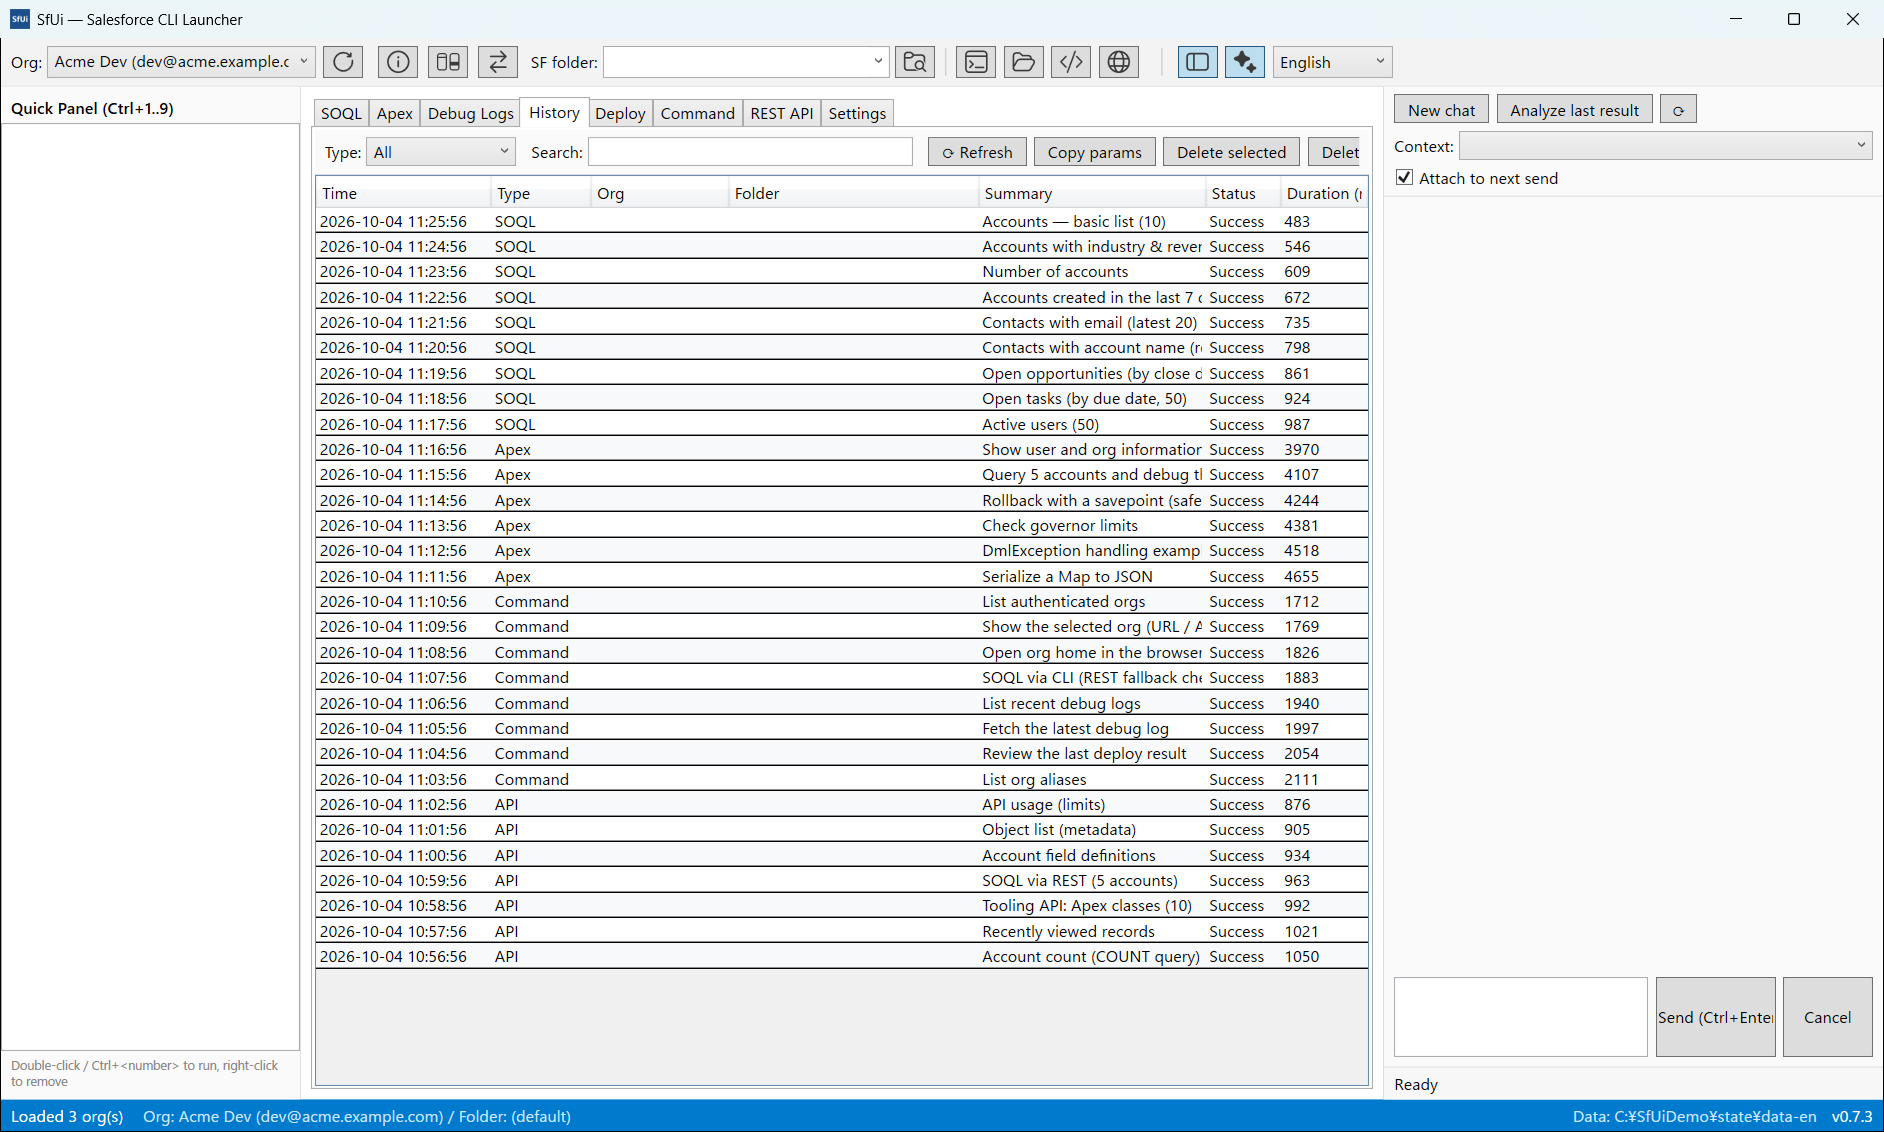
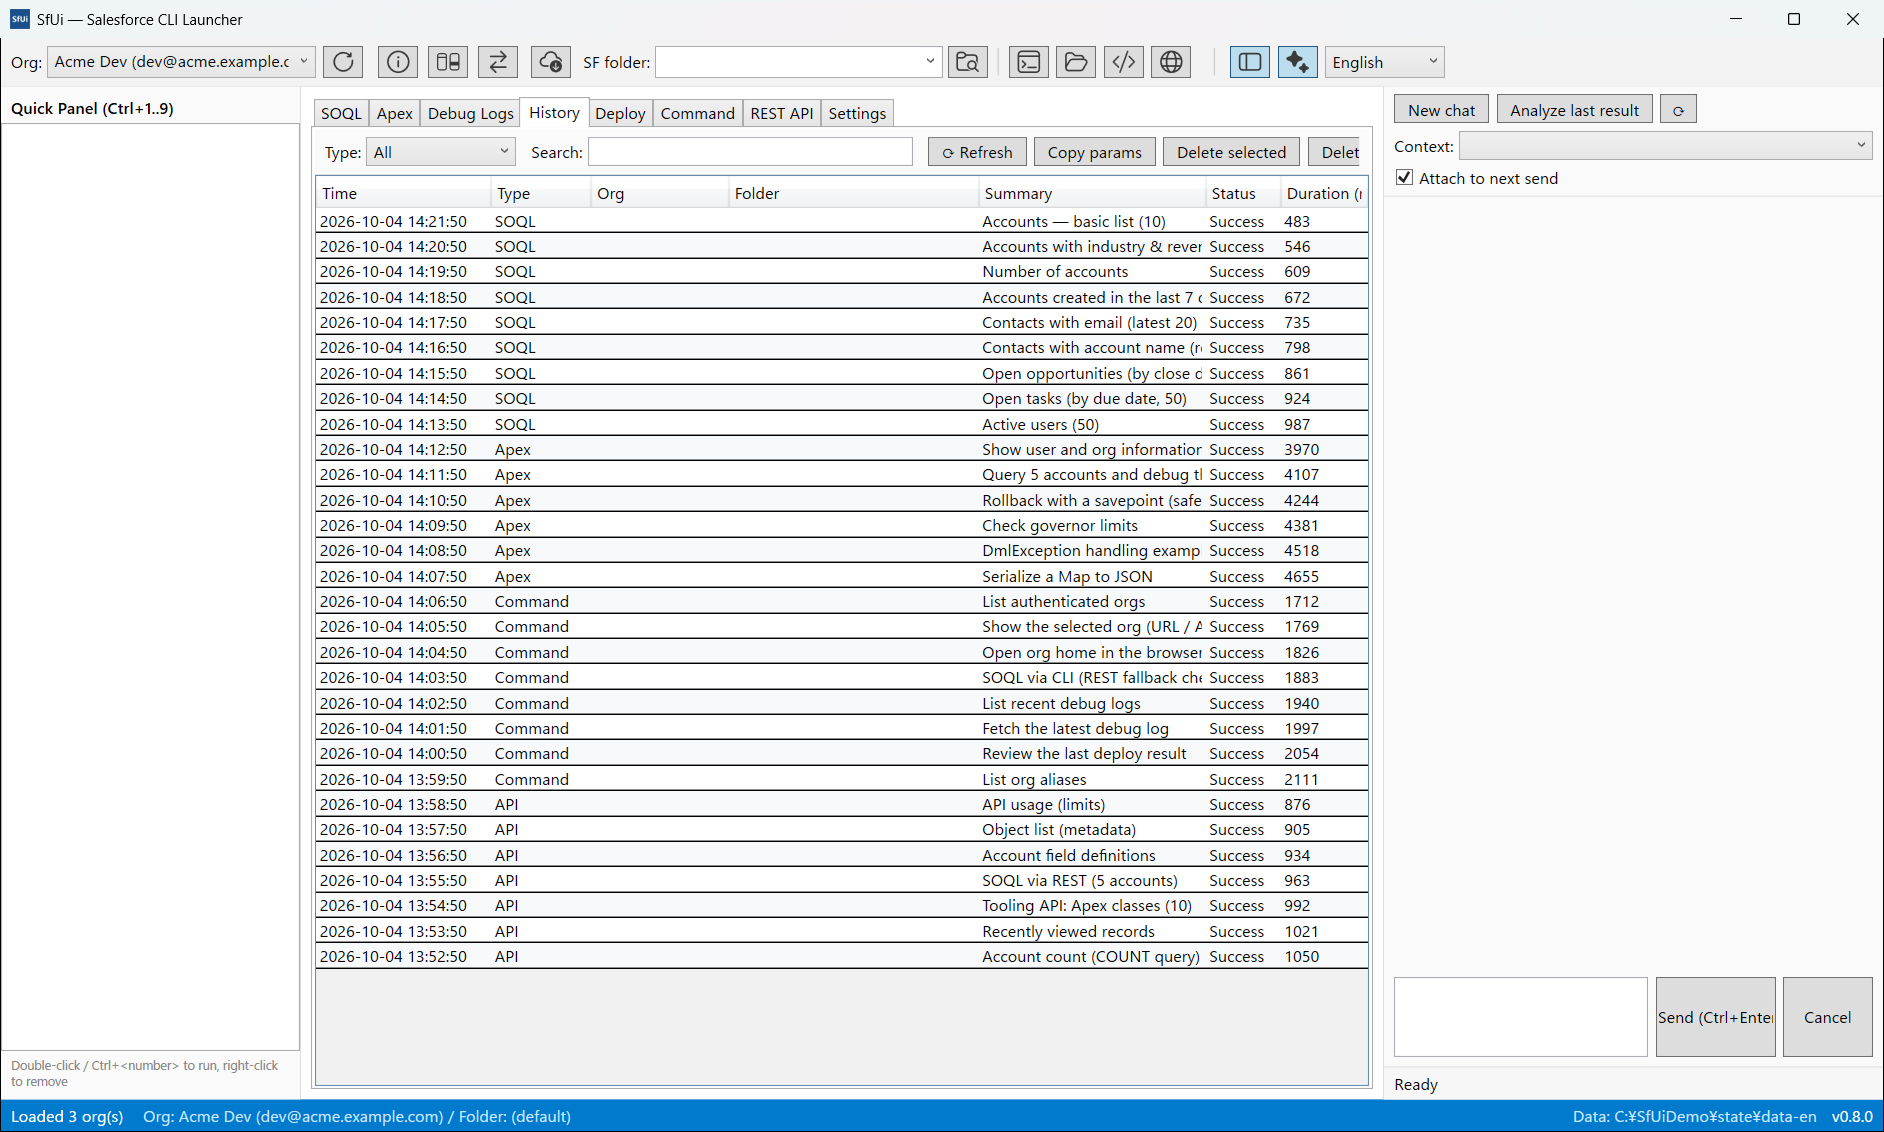
Refresh README screenshots (add Backup & Restore / Backup compare, EN+JA), publish GitHub Release v0.8.0 (SfUi.exe + portable zip) and update download references

diff --git a/src/SfUi.App/Views/CompareTabView.xaml b/src/SfUi.App/Views/CompareTabView.xaml
@@ -4,7 +4,7 @@
              xmlns:loc="clr-namespace:SfUi.App">
     <Grid Margin="4">
         <Grid.ColumnDefinitions>
-            <ColumnDefinition Width="700" />
+            <ColumnDefinition Width="620" />
             <ColumnDefinition Width="*" />
         </Grid.ColumnDefinitions>
 
@@ -97,8 +97,8 @@
                     </Style>
                 </DataGrid.RowStyle>
                 <DataGrid.Columns>
-                    <DataGridTextColumn Header="{loc:Tr Backup_ColObject}" Width="190" Binding="{Binding Name}" />
-                    <DataGridTextColumn Header="{loc:Tr Backup_ColLabel}" Width="*" Binding="{Binding Label}" />
+                    <DataGridTextColumn Header="{loc:Tr Backup_ColObject}" Width="180" Binding="{Binding Name}" />
+                    <DataGridTextColumn Header="{loc:Tr Backup_ColLabel}" Width="*" MinWidth="140" Binding="{Binding Label}" />
                     <DataGridTextColumn Header="{loc:Tr BackupCompare_ColCountA}" Width="80" Binding="{Binding CountAText}" />
                     <DataGridTextColumn Header="{loc:Tr BackupCompare_ColCountB}" Width="80" Binding="{Binding CountBText}" />
                     <DataGridTextColumn Header="{loc:Tr BackupCompare_ColAdded}" Width="70" Binding="{Binding AddedText}" />

diff --git a/README.md b/README.md
@@ -3,7 +3,7 @@
 A Windows desktop tool that wraps the Salesforce CLI (`sf`) with a fast, click-light UI.
 Run SOQL, anonymous Apex, debug logs, deploys, free-form `sf` commands and raw REST API calls —
 with history/favorites, quick switching between orgs and project folders, one-click tool launcher,
-an **Org Info** window for each org, and side-by-side comparison of 2–4 orgs.
+an **Org Info** window for each org, side-by-side comparison of 2–4 orgs, and **record backup / restore** with backup-to-backup comparison.
 
 > UI languages: **English (default) / 日本語** — switch instantly from the top bar.
 
@@ -17,6 +17,12 @@ an **Org Info** window for each org, and side-by-side comparison of 2–4 orgs.
 
 ![Compare Orgs window](docs/screenshots/compare-en.png)
 *Compare Orgs — 2–4 orgs side by side; rows that exist in only some orgs (or differ in value) are highlighted in yellow*
+
+![Backup & Restore window](docs/screenshots/backup-restore-en.png)
+*Backup & Restore — pick a backup and restore objects with Id/key matching; label, description, org info and counts are filled in for you*
+
+![Backup compare tab](docs/screenshots/backup-compare-en.png)
+*Backup compare — objects with differences are highlighted by color (diff / only in A / only in B); record-level diffs open in a separate window*
 
 ![Execution history](docs/screenshots/history-en.png)
 *Every operation is saved in History and can be replayed with a double-click*
@@ -57,7 +63,7 @@ an **Org Info** window for each org, and side-by-side comparison of 2–4 orgs.
 
 1. Download from the [Releases](../../releases) page:
    - **`SfUi.exe`** — the portable single executable, or
-   - **`SfUi-v0.7.3-portable.zip`** — the executable **plus a ready-to-use `data/` folder with 30 sample SOQL / Apex / commands / REST requests already in the history** (just extract and run).
+   - **`SfUi-v0.8.0-portable.zip`** — the executable **plus a ready-to-use `data/` folder with 30 sample SOQL / Apex / commands / REST requests already in the history** (just extract and run).
 2. Put it in any folder and double-click (no installer).
    - Windows SmartScreen may warn because the binary is unsigned — choose *More info* → *Run anyway*.
 3. On first run a `data/` folder is created next to the exe (portable mode).
@@ -103,7 +109,7 @@ SfUi.sln
 │  ├─ Storage       … atomic JSON stores (settings / history / favorites / recent)
 │  └─ Localization  … UiText dictionaries (en / ja)
 ├─ src/SfUi.App     … WPF app (MVVM, views, localization markup extension)
-└─ tests/SfUi.Tests … xUnit (277 tests: quoting, JSON parsing, stores, services, org info, org compare, AI client, localization, …)
+└─ tests/SfUi.Tests … xUnit (380 tests: quoting, JSON parsing, stores, services, org info, org compare, data I/O, backups, localization, …)
 ```
 
 Built with C# / .NET 9 / WPF, CommunityToolkit.Mvvm and AvalonEdit.
@@ -115,7 +121,8 @@ Built with C# / .NET 9 / WPF, CommunityToolkit.Mvvm and AvalonEdit.
 Salesforce CLI（`sf`）の操作を Windows デスクトップ UI から行えるツールです。
 SOQL・匿名Apex・デバッグログ・デプロイ・自由コマンド・REST API 呼び出しを、履歴とお気に入り付きで
 少ないクリックで実行できます。組織とフォルダの切替、外部ツールの起動もワンクリック。
-組織情報の閲覧（別ウィンドウ）・複数組織の一括比較・データの入出力（CSV / JSON・REST / Bulk API）にも対応しています。
+組織情報の閲覧（別ウィンドウ）・複数組織の一括比較・データの入出力（CSV / JSON・REST / Bulk API）・
+レコードのバックアップと復元（バックアップ間の比較・レコード単位の差分表示付き）にも対応しています。
 
 - UI は **英語（既定）/ 日本語** に対応（上部バーのコンボで即時切替）
 - **AI チャット（複数プロバイダー対応）**: 自然言語から SOQL / 匿名Apex / sf コマンドを生成、実行結果の分析も可能（右サイドパネル表示・上部バーの「AI」で表示切替。既定の DeepSeek 接続先はすぐ試せるよう評価用キーを同梱。設定 → AI のプリセットから OpenAI / Anthropic（Claude）/ ローカル LLM（Ollama 等、キー不要）など **OpenAI 互換 API** に接続可。自分のキーは 設定 → AI（または環境変数 `SFUI_AI_API_KEY`）で登録）
@@ -140,6 +147,12 @@ SOQL・匿名Apex・デバッグログ・デプロイ・自由コマンド・RES
 ![組織比較ウィンドウ](docs/screenshots/compare-ja.png)
 *組織比較 — 2〜4 組織を横並び比較。「片方にのみ存在」「値が異なる」行を黄色でハイライト*
 
+![バックアップと復元ウィンドウ](docs/screenshots/backup-restore-ja.png)
+*バックアップと復元 — バックアップを選んで Id / キー照合で復元。ラベル・説明・組織情報・件数は自動で入力されます*
+
+![バックアップ比較タブ](docs/screenshots/backup-compare-ja.png)
+*バックアップ比較 — 差分のあるオブジェクトを色でハイライト（差分 / A のみ / B のみ）。レコード単位の差分は別ウィンドウで表示*
+
 ![実行履歴](docs/screenshots/history-ja.png)
 *すべての操作を履歴に保存し、ダブルクリックで再実行*
 
@@ -150,7 +163,7 @@ SOQL・匿名Apex・デバッグログ・デプロイ・自由コマンド・RES
 
 1. [Releases](../../releases) からダウンロード
    - **`SfUi.exe`** … 実行ファイル単体（サンプル履歴は設定画面から後で追加可）
-   - **`SfUi-v0.7.3-portable.zip`** … exe + サンプル履歴 30 件入りの `data/` フォルダ（解凍してそのまま実行）
+   - **`SfUi-v0.8.0-portable.zip`** … exe + サンプル履歴 30 件入りの `data/` フォルダ（解凍してそのまま実行）
 2. 任意のフォルダに置いてダブルクリック（インストーラー不要）
    - 署名なしのため SmartScreen の警告が出たら「詳細情報」→「実行」
 3. 初回起動時に exe 隣に `data/` フォルダ（設定・履歴・ログ）が作成されます（ポータブル動作）

diff --git a/PLAN.md b/PLAN.md
@@ -1,6 +1,6 @@
 # SfUi — Salesforce CLI 統合デスクトップツール 実装計画
 
-最終更新: 2026-10-04 / ステータス: Phase 0-15 完了 + AI 接続先の汎用化 + 組織比較 + データ入出力 + アクセス権限タブ + レコードのバックアップ・復元（自動ラベル・比較タブ付き）+ Microsoft Store（MSIX）提出準備完了（v0.8.0 / テスト 376 件 / 実 API スモーク + UIA E2E 検証済み。GitHub Release は v0.7.3 公開済み、Microsoft Store は審査準備中）
+最終更新: 2026-10-04 / ステータス: Phase 0-15 完了 + AI 接続先の汎用化 + 組織比較 + データ入出力 + アクセス権限タブ + レコードのバックアップ・復元（自動ラベル・比較タブ付き）+ Microsoft Store（MSIX）提出準備完了（v0.8.0 / テスト 380 件 / 実 API スモーク + UIA E2E 検証済み。GitHub Release は v0.8.0 公開済み、Microsoft Store は審査準備中）
 
 ## 1. 概要
 
@@ -444,6 +444,8 @@ data/
   - メイン上部バー「バックアップと復元」（Fluent の Cloud Arrow Down アイコン）+ BackupWindow（バックアップ / 復元 / バックアップ比較の 3 タブ）+ レコード詳細・比較レコードの別ウィンドウ
   - バックアップ タブ: ラベル / 説明の自動入力（`{エイリアス}_{yyyy-MM-dd_HH-mm}` / URL・組織 ID・種類）+ 選択をクリア。復元は Id（undelete で Id 維持）/ キー照合 + 参照張り替え
   - バックアップ比較タブ: 2 バックアップのレコード突合（REST×Bulk の型差を吸収）→ 差分行を色でハイライト + レコード単位の差分を別ウィンドウで表示（変更は `項目: A → B`）
-  - Core: `BackupModels` / `BackupStateStore` / `SalesforceSoapClient`（undelete）/ `BackupService`（背景件数取得・REST/Bulk 自動切替・Id/キー照合・参照張り替え）/ `BackupCompareService`（差分計算）
-  - テスト 376 件成功（+18）/ スモーク `--smoke --smoke-backup acc`（undelete で Id 維持・上書き・キー復元の参照張り替え・Bulk 保存まで全項目成功）/ UI チェック 17 項目 PASS
+  - レコード詳細 / 差分ウィンドウ: 先頭列「レコードページを開く」で Salesforce のレコードページをブラウザー表示（インスタンス URL はバックアップ元組織から解決）
+  - Core: `BackupModels` / `BackupStateStore` / `SalesforceSoapClient`（undelete）/ `BackupService`（背景件数取得・REST/Bulk 自動切替・Id/キー照合・参照張り替え）/ `BackupCompareService`（差分計算）/ `BackupOrgUrls`（URL 解決）
+  - テスト 380 件成功（+22）/ スモーク `--smoke --smoke-backup acc`（undelete で Id 維持・上書き・キー復元の参照張り替え・Bulk 保存まで全項目成功）/ UI チェック 20 項目 PASS
+  - 2026-10-04: README のスクリーンショットに「バックアップと復元」「バックアップ比較」を追加（EN/JA）。GitHub Release **v0.8.0** 公開（アセット = `SfUi.exe` + `SfUi-v0.8.0-portable.zip`）
   - バージョン **0.8.0**
